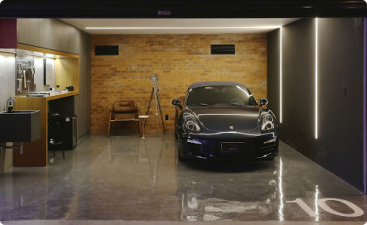
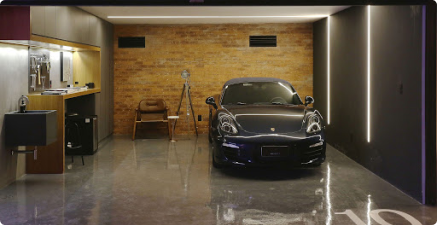
alteração no fluxo do cliente criar locação

diff --git a/src/pages/Disponibilidade/index.js b/src/pages/Disponibilidade/index.js
@@ -5,24 +5,7 @@ import {Calendar, CalendarList, Agenda, LocaleConfig } from 'react-native-calend
 
 import styles from './style';
 
-const calendary =
-{
-  "janeiro" : 31,
-  "marco": 31,
-  "abril": 30,
-  "maio": 31,
-  "junho": 30,
-  "julho": 31,
-  "agosto": 31,
-  "setembro": 30,
-  "outubro": 31,
-  "novembro": 30,
-  "dezembro": 31,
-};
-
-
-
-function Disponibilidade({ navigation }) {
+function AddGaragePage3({ route, navigation }) {
   LocaleConfig.defaultLocale = 'pt-br';
 
   LocaleConfig.locales['pt-br'] = {
@@ -33,24 +16,119 @@ function Disponibilidade({ navigation }) {
     today: 'Hoje'
   };
 
-  const [selected, setSelected] = useState({'2020-08-10': {startingDay: true, color: 'green'}});
+  const [selected, setSelected] = useState({});
+  const [firstDate, setFirstDate] = useState({});
+
+  // usado para saber qual clique é para adicionar o intervalo.
+  // false não deu nem um clique, true falta um para o intervalo
+  const [alter, setAlter] = useState(false)
 
   const onDayPress = (day) => {
-    // setSelected(day.dateString);
 
+    if(!alter){
+      const dayObj = new Date(day.year, day.month-1, day.day)
+      setFirstDate(dayObj);
+      setAlter(!alter)
+    }else {
+      const dayObj = new Date(day.year, day.month-1, day.day); //month is less 1 because is start in month 0 and calendary 1
 
-    setSelected({
-      '2020-08-10': {startingDay: true, color: 'green'},
-      '2020-08-11': {startingDay: true, color: 'green'},
-  });
-    console.log(selected)
+      if(firstDate > dayObj){
+        markDays(dayObj, firstDate);
+      }else {
+        markDays(firstDate, dayObj);
+      }
+
+      setAlter(!alter)
+     
+    }
   };
+  const next = () => {
+    
+    let dataPage3 = {}
+       
+    dataPage3 = Object.assign(route.params, {"disponibilidade": selected});
+
+    navigation.navigate('AddGaragePage4', dataPage3)
+
+
+  };
+  const markDays = (initial, final) => {
+  
+    const markedDay = Object.assign({}, selected)
+
+    var d = new Date(initial)
+    
+    for (; d <= final; d.setDate(d.getDate() + 1)) {
+
+      if(final.getTime() == initial.getTime()){
+        markedDay[formatDate(d)] = {startingDay: true, color: 'green', endingDay: true}
+        
+        var dateAnterior = new Date(d)
+        dateAnterior.setDate(d.getDate() - 1)
+        
+        if(!!markedDay[formatDate(dateAnterior)]){
+          markedDay[formatDate(dateAnterior)].endingDay = true
+        }
+        var dateProximo = new Date(d)
+        dateProximo.setDate(d.getDate() + 1)
+        
+        if(!!markedDay[formatDate(dateProximo)]){
+          markedDay[formatDate(dateProximo)].startingDay = true;
+        }
+
+      } else if(d.getTime() == initial.getTime()){
+        markedDay[formatDate(d)] =  {startingDay: true, color: 'green' }
+        
+        var dateAnterior = new Date(d)
+        dateAnterior.setDate(d.getDate() - 1)
+        
+        if(!!markedDay[formatDate(dateAnterior)]){
+          markedDay[formatDate(dateAnterior)].endingDay = true
+        }
+
+
+      }else if(d.getTime() === final.getTime()){
+        markedDay[formatDate(d)] = { endingDay: true, color: 'green'}
+        //verificando se o proximo está selecionado para caso tiver falar que ele indica um inicio
+        
+        var dateProximo = new Date(d)
+        dateProximo.setDate(d.getDate() + 1)
+        
+        if(!!markedDay[formatDate(dateProximo)]){
+          markedDay[formatDate(dateProximo)].startingDay = true;
+        }
+
+      }else{
+        markedDay[formatDate(d)] = { startingDay: false, color: 'green', endingDay: false}
+      }
+      
+    }
+
+    setSelected(markedDay);
+  };
+
+  function formatDate(date) {
+    var d = new Date(date),
+        month = '' + (d.getMonth() + 1),
+        day = '' + d.getDate(),
+        year = d.getFullYear();
+
+    if (month.length < 2) 
+        month = '0' + month;
+    if (day.length < 2) 
+        day = '0' + day;
+
+    return [year, month, day].join('-');
+}
 
   return (
     <View style={styles.containerDisponibilidade}>
       <View style={styles.containerBody}>
         <View style={styles.containerText}>
-          <Text style={styles.textDisponibilidade}>Veja as datas disponíveis e selecione os dias que deseja alugar</Text>
+          <Text style={styles.textDisponibilidade}>
+            Selecione os períodos que deseja disponibilizar 
+            sua garagem clicando primeira vez em uma data para indicar o inicio e segunda vez para demarcar o fim
+            </Text>
         </View>
 
         <View style={styles.containerCalendary}>
@@ -60,7 +138,7 @@ function Disponibilidade({ navigation }) {
             markingType={'period'}
             pastScrollRange={0}
             // Max amount of months allowed to scroll to the future. Default = 50
-            futureScrollRange={3}
+            futureScrollRange={12}
             // Enable or disable scrolling of calendar list
             markedDates={selected}
             onDayPress={onDayPress}
@@ -71,10 +149,17 @@ function Disponibilidade({ navigation }) {
       <View style={styles.bottomBar}>
 
         <TouchableOpacity
-          style={ styles.btnConfirmar}
+          style={styles.btnLimpar}
           onPress={() => {
-
+            setSelected({})
           }}
+        >
+          <Text style={styles.textConfirmar}>Limpar tudo</Text>
+        </TouchableOpacity>
+
+        <TouchableOpacity
+          style={styles.btnConfirmar}
+          onPress={next}
         >
           <Text style={styles.textConfirmar}>Avançar</Text>
         </TouchableOpacity>
@@ -85,4 +170,4 @@ function Disponibilidade({ navigation }) {
   );
 }
 
-export default Disponibilidade;
+export default AddGaragePage3;

diff --git a/src/pages/Garage/index.js b/src/pages/Garage/index.js
@@ -35,7 +35,8 @@ function Garage({ route, navigation }) {
         showsHorizontalScrollIndicator={false}
       >
         <Image
-          source={require('../../assets/garage_page.png')}
+
+          source={require('../../assets/garage_2.png')}
         />
         <Image
           source={require('../../assets/garage_page.png')}
@@ -49,12 +50,12 @@ function Garage({ route, navigation }) {
           <Icon name="heart-o" size={18} color="#000" />
         </View>
         <View style={styles.containerDescricao}>
-          <Text>Descrição</Text>
+          <Text style={styles.tituloInformacoes}>Descrição</Text>
           <Text>{item.descricao}</Text>
         </View>
         <View style={styles.containerInformation}>
           <View>
-            <Text style={styles.textInformation}>Informações</Text>
+            <Text style={styles.tituloInformacoes}>Informações</Text>
           </View>
           <View style={styles.containerInformationItems}>
             <View style={styles.itemInformation}>
@@ -93,7 +94,7 @@ function Garage({ route, navigation }) {
         </View>
         <View style={styles.containerEndereco}>
 
-            <Text style={styles.textEndereco}>Endereço</Text>
+          <Text style={styles.tituloInformacoes}>Endereço</Text>
 
           <View style={styles.containerMaps}>
             <MapView style={styles.Maps}
@@ -109,12 +110,13 @@ function Garage({ route, navigation }) {
             <Text>{item.enderecoGaragem.rua},{item.enderecoGaragem.bairro}, {item.enderecoGaragem.cidade}, {item.enderecoGaragem.estado}</Text>
           </View>
         </View>
+
+        <Text style={styles.tituloInformacoes}>Avaliacão</Text>
         <View style={styles.containerAvaliacao}>
-          <Text>Avaliacão</Text>
-          <Text>4,7</Text>
+          <Text style={styles.rateText}>4,7</Text>
         </View>
         <View style={styles.containerComentarios}>
-          <Text>Comentários</Text>
+          <Text style={styles.tituloInformacoes}>Comentários</Text>
 
           <ComentaryCard />
           <ComentaryCard />

diff --git a/src/pages/Garage/style.js b/src/pages/Garage/style.js
@@ -13,7 +13,10 @@ const styles = StyleSheet.create({
     marginRight: 10,
     marginLeft: 10,
   },
-
+  containerAvaliacao:{
+    marginTop: 20,
+    alignItems:"center"
+  },
   containerCardComentary:{
     flex:1,
     padding:10,
@@ -69,6 +72,10 @@ const styles = StyleSheet.create({
     width: 380,
     height:100
   },
+  rateText: {
+
+    fontSize: 50
+  },
   textComentary:{
     marginLeft:9,
     marginTop:5
@@ -80,11 +87,17 @@ const styles = StyleSheet.create({
     fontSize: 15,
   },
   textItemInformation:{
-    marginLeft: 3,
+    marginLeft: 8,
 
   },
   textTitle: {
-    fontSize: 15,
+    fontSize: 18,
+    fontWeight:"bold",
+  },
+  tituloInformacoes:{
+    fontWeight: "bold",
+    fontSize:16,
+    marginTop: 20,
   },
 })
 

diff --git a/src/pages/Disponibilidade/style.js b/src/pages/Disponibilidade/style.js
@@ -5,7 +5,7 @@ const styles = StyleSheet.create({
     height: 61,
     backgroundColor: "#fff",
     flexDirection: "row",
-    justifyContent: "flex-end",
+    justifyContent: "space-between",
     padding: 10,
     elevation: 2,
     borderTopWidth:1,
@@ -17,10 +17,17 @@ const styles = StyleSheet.create({
     borderRadius: 10,
     backgroundColor: "#F4C20D",
   },
+  btnLimpar:{
+    paddingVertical: 10,
+    paddingHorizontal: 15,
+    borderRadius: 10,
+    backgroundColor: "#ff0000",
+  },
   containerCalendary: {
     marginTop: 15,
     marginLeft: 0,
     marginRight: 0,
+    marginBottom: 50,
 
   },
   containerDisponibilidade:{

diff --git a/src/pages/SignIn/index.js b/src/pages/SignIn/index.js
@@ -6,7 +6,7 @@ import styles from './style';
 
 
 function SignIn({ navigation }) {
-  const [email, onChangeEmail] = React.useState('denis.lopes3012@gmail.com');
+  const [email, onChangeEmail] = React.useState('douglas@gmail.com');
   const [senha, onChangeText] = React.useState('png126497');
   const [session, setSession] = React.useState(null);
 
